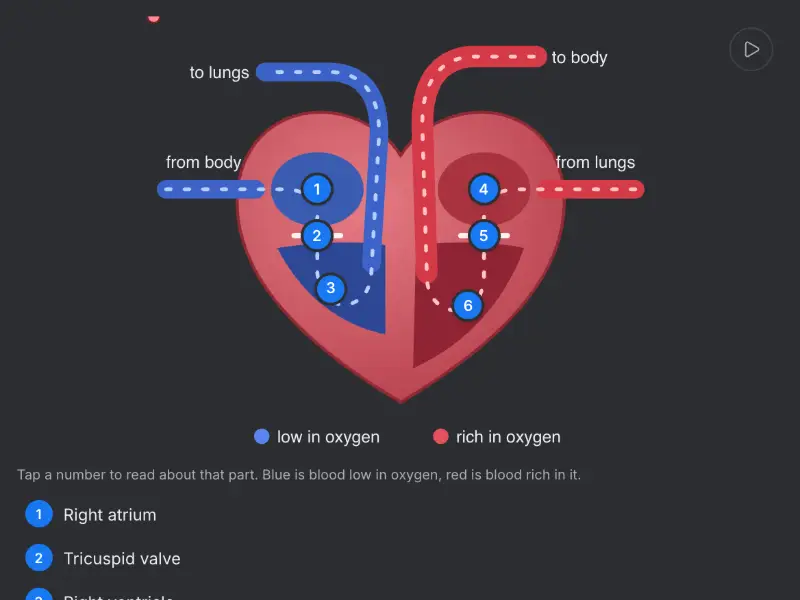
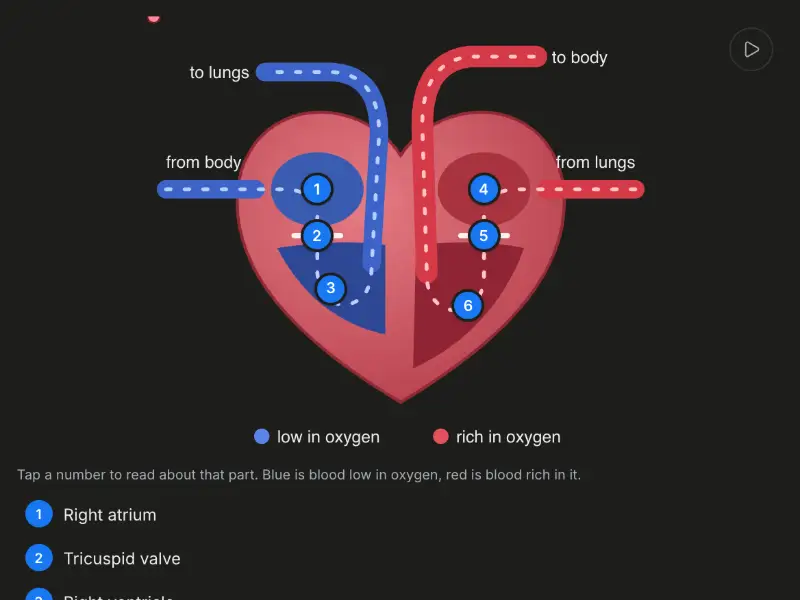
feat(gallery): one card per widget type on /live
A run beats a widget demo for the same widget, since it is the latest and
shows a real prompt, and a demo shows only when no run uses its widget.
The grid drops from 40 cards to 25. Pruned demo keys and their old
/showcase URLs open the run that replaced them, and the orphaned
thumbnails are gone. gallery.test.ts fails on a duplicate widget type.

diff --git a/packages/svelte/src/routes/live/gallery.ts b/packages/svelte/src/routes/live/gallery.ts
@@ -1,14 +1,17 @@
 // routes/live/gallery.ts — The one registry behind the /live gallery and the
-// thumbnail capture (scripts/capture-thumbs.ts). Two kinds of item share one
-// grid: a run (a recorded or hand-written answer, replayed by Player) and a
-// widget demo (a component in ./demos, rendered live in the same place). Both
-// open in place at /live?s=<key>: a run's key is its scenario id, a demo's is
-// `demo-<id>` (run and demo ids overlap: memory-match, meal-plan). `capture`
-// is the page path and element the capture script screenshots (both kinds
-// mark theirs with data-thumb). Thumbs are static/thumbs/<id>.webp at
-// THUMB_W x THUMB_H, so item ids are unique across both kinds (runs carry a
-// `live-` prefix). gallery.test.ts holds every demo to a file in ./demos and
-// every id to a committed thumb. Old /showcase URLs redirect here
+// thumbnail capture (scripts/capture-thumbs.ts). Two kinds of item: a run (a
+// recorded or hand-written answer, replayed by Player) and a widget demo (a
+// component in ./demos, rendered live in the same place). Both open in place
+// at /live?s=<key>: a run's key is its scenario id, a demo's `demo-<id>` (run
+// and demo ids overlap). The grid (galleryItems) shows ONE card per widget
+// type: a run wins (it is the latest and has a real prompt), the first run per
+// widget in liveRuns order, and a demo shows only when no run uses its widget.
+// A demo's widget is its id; a run's is the first demo widget its spec uses,
+// else its own id. A run that replaces a demo takes the demo's group, so
+// Drawings keeps its card. Pruned items still open: a pruned run by its key,
+// a pruned demo's key resolves to the run that replaced it (resolveKey). Thumbs
+// are static/thumbs/<id>.webp for grid items only, at THUMB_W x THUMB_H.
+// gallery.test.ts holds all of this. Old /showcase URLs redirect here
 // (routes/showcase/[...path]).
 
 import { scenarios } from './scenarios.js';
@@ -32,6 +35,8 @@ export interface GalleryItem {
 	kind: 'run' | 'demo';
 	/** The `?s=` value that opens it in place. */
 	key: string;
+	/** The widget type the card stands for; the grid has one card per type. */
+	widget: string;
 }
 
 const demoKey = (id: string) => `demo-${id}`;
@@ -45,7 +50,8 @@ const show = (id: string, title: string, group: Group, caption: string): Gallery
 	href: `/live?s=${demoKey(id)}`,
 	capture: { path: `/live?s=${demoKey(id)}`, selector: '[data-thumb]' },
 	kind: 'demo',
-	key: demoKey(id)
+	key: demoKey(id),
+	widget: id
 });
 
 export const demoItems: GalleryItem[] = [
@@ -77,22 +83,51 @@ export const demoItems: GalleryItem[] = [
 /** Every /live run: the model recordings, then the hand-written answers. */
 export const liveRuns = [...scenarios, ...playScenarios];
 
-export const liveItems: GalleryItem[] = liveRuns.map((s) => ({
-	id: `live-${s.id}`,
-	title: s.title,
-	caption: s.fixture.prompt,
-	group: s.group ?? 'Do',
-	tag: s.fixture.model === 'hand-written' ? 'Hand-written' : 'Recorded',
-	href: `/live?s=${s.id}`,
-	capture: { path: `/live?s=${s.id}`, selector: '[data-thumb]' },
-	kind: 'run' as const,
-	key: s.id
-}));
+const demoWidgets = new Set(demoItems.map((d) => d.widget));
+/** The first demo widget a run's spec names, else the run's own id. */
+const widgetOf = (s: (typeof liveRuns)[number]) => {
+	const text = s.fixture.chunks.map((c) => c.text).join('');
+	for (const m of text.matchAll(/\\?"type\\?"\s*:\s*\\?"([a-z0-9-]+)/g)) if (demoWidgets.has(m[1])) return m[1];
+	return s.id;
+};
 
-/** The grid's order: by group, runs (the latest) before demos within each. */
-export const galleryItems: GalleryItem[] = GROUPS.flatMap((g) => [...liveItems, ...demoItems].filter((i) => i.group === g));
+/** Every run as an item, pruned or not. */
+export const liveItems: GalleryItem[] = liveRuns.map((s) => {
+	const widget = widgetOf(s);
+	return {
+		id: `live-${s.id}`,
+		title: s.title,
+		caption: s.fixture.prompt,
+		group: demoItems.find((d) => d.widget === widget)?.group ?? s.group ?? 'Do',
+		tag: s.fixture.model === 'hand-written' ? 'Hand-written' : 'Recorded',
+		href: `/live?s=${s.id}`,
+		capture: { path: `/live?s=${s.id}`, selector: '[data-thumb]' },
+		kind: 'run' as const,
+		key: s.id,
+		widget
+	};
+});
 
-/** The item a `?s=` value opens, if any. */
-export const itemByKey = (key: string | null) => (key ? galleryItems.find((i) => i.key === key) : undefined);
+/** The grid's runs: the first per widget type. */
+const shownRuns = liveItems.filter((r, i) => liveItems.findIndex((o) => o.widget === r.widget) === i);
+const runFor = (widget: string) => shownRuns.find((r) => r.widget === widget);
+
+/** The grid: one card per widget type, by group, runs before demos within each. */
+export const galleryItems: GalleryItem[] = GROUPS.flatMap((g) =>
+	[...shownRuns, ...demoItems.filter((d) => !runFor(d.widget))].filter((i) => i.group === g)
+);
+
+/** A pruned demo's key gives way to the run that replaced it; any other key is itself. */
+export const resolveKey = (key: string) => {
+	const demo = demoItems.find((d) => d.key === key);
+	return (demo && runFor(demo.widget)?.key) ?? key;
+};
+
+/** The item a `?s=` value opens, if any (pruned demos resolve to their run). */
+export const itemByKey = (key: string | null) => {
+	if (!key) return undefined;
+	const k = resolveKey(key);
+	return liveItems.find((i) => i.key === k) ?? demoItems.find((i) => i.key === k);
+};
 
 export const thumbSrc = (id: string) => `/thumbs/${id}.webp`;

diff --git a/packages/svelte/src/routes/live/gallery.test.ts b/packages/svelte/src/routes/live/gallery.test.ts
@@ -1,12 +1,12 @@
-// routes/live/gallery.test.ts — Holds the gallery registry to the files it
-// points at: every widget demo has its component in ./demos, every run is one
-// replay, every `?s=` key opens exactly one item, every id has a committed thumb
-// and static/thumbs/thumbs.json lists the same ids in grid order (run `bun run
-// thumbs` after adding an item), and no thumb is left over. Every old
-// /showcase URL redirects to the item it used to show. Files are listed with
-// Vite globs.
+// routes/live/gallery.test.ts — Holds the gallery registry to its rules and the
+// files it points at: one card per widget type (a run wins over a demo), every
+// pruned demo key opens the run that replaced it, every demo has its component
+// in ./demos, every grid id a committed thumb and nothing else in
+// static/thumbs, thumbs.json lists the grid in order (run `bun run thumbs`
+// after a change), and every old /showcase URL redirects to what it showed.
+// Files are listed with Vite globs.
 import { expect, test } from 'vitest';
-import { demoItems, galleryItems, GROUPS, itemByKey, liveItems, liveRuns } from './gallery.js';
+import { demoItems, galleryItems, GROUPS, itemByKey, liveItems, liveRuns, resolveKey } from './gallery.js';
 import { load } from '../showcase/[...path]/+page.js';
 import manifest from '../../../static/thumbs/thumbs.json';
 
@@ -14,25 +14,42 @@ const demos = Object.keys(import.meta.glob('/src/routes/live/demos/*.svelte'));
 const thumbs = Object.keys(import.meta.glob('/static/thumbs/*.webp', { query: '?url' }));
 const redirect = (path: string) => load({ params: { path } }).to;
 
-test('ids and keys are unique, and every item is in the grid once', () => {
-	const ids = galleryItems.map((i) => i.id);
-	expect(new Set(ids).size).toBe(ids.length);
-	expect(new Set(galleryItems.map((i) => i.key)).size).toBe(ids.length);
-	expect(galleryItems.length).toBe(demoItems.length + liveItems.length);
+test('ids and keys are unique, and every grid group is a filter', () => {
+	const all = [...liveItems, ...demoItems];
+	expect(new Set(all.map((i) => i.id)).size).toBe(all.length);
+	expect(new Set(all.map((i) => i.key)).size).toBe(all.length);
 	for (const i of galleryItems) expect(GROUPS as readonly string[], i.id).toContain(i.group);
+	for (const g of GROUPS) expect(galleryItems.some((i) => i.group === g), g).toBe(true);
+});
+
+test('the grid has one card per widget type, and a run beats a demo', () => {
+	const widgets = galleryItems.map((i) => i.widget);
+	expect(widgets.filter((w, i) => widgets.indexOf(w) !== i)).toEqual([]);
+	const runWidgets = new Set(liveItems.map((i) => i.widget));
+	for (const d of galleryItems.filter((i) => i.kind === 'demo')) expect(runWidgets.has(d.widget), d.id).toBe(false);
+	// The near-duplicates that prompted the rule.
+	expect(liveItems.find((i) => i.key === 'bill-splitter')?.widget).toBe('bill-split');
+	expect(liveItems.find((i) => i.key === 'tokyo-trip')?.widget).toBe('itinerary');
+	expect(liveItems.find((i) => i.key === 'memory-match')?.widget).toBe('memory-match');
+});
+
+test('a pruned demo key opens the run that replaced it', () => {
+	expect(resolveKey('demo-bill-split')).toBe('bill-splitter');
+	expect(itemByKey('demo-itinerary')?.key).toBe('tokyo-trip');
+	expect(itemByKey('demo-booking')?.kind).toBe('demo');
+	for (const d of demoItems) expect(itemByKey(d.key), d.id).toBeTruthy();
 });
 
 test('every demo has its component and opens in place on /live', () => {
 	for (const i of demoItems) {
 		expect(demos, i.id).toContain(`/src/routes/live/demos/${i.id}.svelte`);
 		expect(i.href).toBe(`/live?s=demo-${i.id}`);
-		expect(itemByKey(i.key)).toBe(i);
 	}
 });
 
 test('every live item is one run', () => {
 	expect(liveItems.map((i) => i.href)).toEqual(liveRuns.map((s) => `/live?s=${s.id}`));
-	for (const i of liveItems) expect(itemByKey(i.key)?.kind).toBe('run');
+	for (const i of liveItems) expect(itemByKey(i.key)).toBe(i);
 });
 
 test('every item has a committed thumb, thumbs.json matches the grid, and no thumb is orphaned', () => {
@@ -43,7 +60,9 @@ test('every item has a committed thumb, thumbs.json matches the grid, and no thu
 
 test('old /showcase URLs redirect to /live, its items, or /ds', () => {
 	expect(redirect('')).toBe('/live');
-	for (const i of demoItems) expect(redirect(i.id)).toBe(`/live?s=demo-${i.id}`);
+	for (const i of demoItems) expect(redirect(i.id)).toBe(itemByKey(i.key)?.href);
+	expect(redirect('bill-split')).toBe('/live?s=bill-splitter');
+	expect(redirect('booking')).toBe('/live?s=demo-booking');
 	expect(redirect('motion')).toBe('/ds/motion');
 	expect(() => redirect('nope')).toThrow();
 });

diff --git a/packages/svelte/src/routes/live/+page.svelte b/packages/svelte/src/routes/live/+page.svelte
@@ -4,8 +4,8 @@
     like Paw OS Discover: a compact hero (lib/discover's DiscoverHeader) with
     filter chips (All, Do, Learn, Play, Track, Flows, Drawings; the choice kept
     in `?group=`), then one titled section of tiles (GalleryGrid) per group.
-    Items come from gallery.ts: recorded and hand-written runs first, then the
-    widget demos. A plain click opens the item in place with a "Back to
+    Items come from gallery.ts, one card per widget type: the runs, then the
+    widget demos no run covers. A plain click opens the item in place with a "Back to
     gallery" button: a run replays in Player (it streams into <Ripple> and
     ends as a working card), a demo's component from ./demos renders live
     (lazy-loaded, so the grid's bundle stays small). The card's href
@@ -24,7 +24,7 @@
 	import { pushState, replaceState } from '$app/navigation';
 	import DiscoverHeader from '$lib/discover/DiscoverHeader.svelte';
 	import GalleryGrid from './GalleryGrid.svelte';
-	import { galleryItems, GROUPS, itemByKey, liveRuns } from './gallery.js';
+	import { galleryItems, GROUPS, itemByKey, liveRuns, resolveKey } from './gallery.js';
 	import { readReturn } from './checkout.js';
 	import OrderReceipt from './OrderReceipt.svelte';
 	import Player from './Player.svelte';
@@ -54,9 +54,10 @@
 	const run = $derived(open?.kind === 'run' ? liveRuns.find((s) => s.id === open.key) : undefined);
 	const demo = $derived(open?.kind === 'demo' ? demoModules[`./demos/${open.id}.svelte`]?.() : undefined);
 
+	/** The open item's key from the URL; a pruned demo's key gives way to its run's. */
 	const keyIn = (search: string) => {
 		const key = new URLSearchParams(search).get('s');
-		return itemByKey(key) ? key : null;
+		return key && itemByKey(key) ? resolveKey(key) : null;
 	};
 	const groupIn = (search: string) => {
 		const g = new URLSearchParams(search).get('group');

diff --git a/packages/svelte/src/routes/showcase/[...path]/+page.ts b/packages/svelte/src/routes/showcase/[...path]/+page.ts
@@ -1,10 +1,11 @@
 // routes/showcase/[...path]/+page.ts — Every old /showcase URL, now a redirect.
 // /showcase goes to /live (the one gallery), /showcase/<id> to the item it
-// showed, opened in place (/live?s=demo-<id>), and the names that moved to the
+// showed, opened in place (the run that replaced it in the gallery when one
+// did, else /live?s=demo-<id>), and the names that moved to the
 // design system to /ds/<name>. Anything else is a 404. Prerendered (entries),
 // so the static build writes one small redirect page per old URL.
 import { error } from '@sveltejs/kit';
-import { demoItems } from '../../live/gallery.js';
+import { demoItems, itemByKey } from '../../live/gallery.js';
 
 const MOVED_TO_DS = [
 	'ai',
@@ -26,7 +27,8 @@ const MOVED_TO_DS = [
 const target = (path: string) => {
 	if (path === '') return '/live';
 	if (MOVED_TO_DS.includes(path)) return `/ds/${path}`;
-	return demoItems.find((i) => i.id === path)?.href;
+	const demo = demoItems.find((i) => i.id === path);
+	return demo && itemByKey(demo.key)?.href;
 };
 
 export const entries = () => ['', ...MOVED_TO_DS, ...demoItems.map((i) => i.id)].map((path) => ({ path }));
